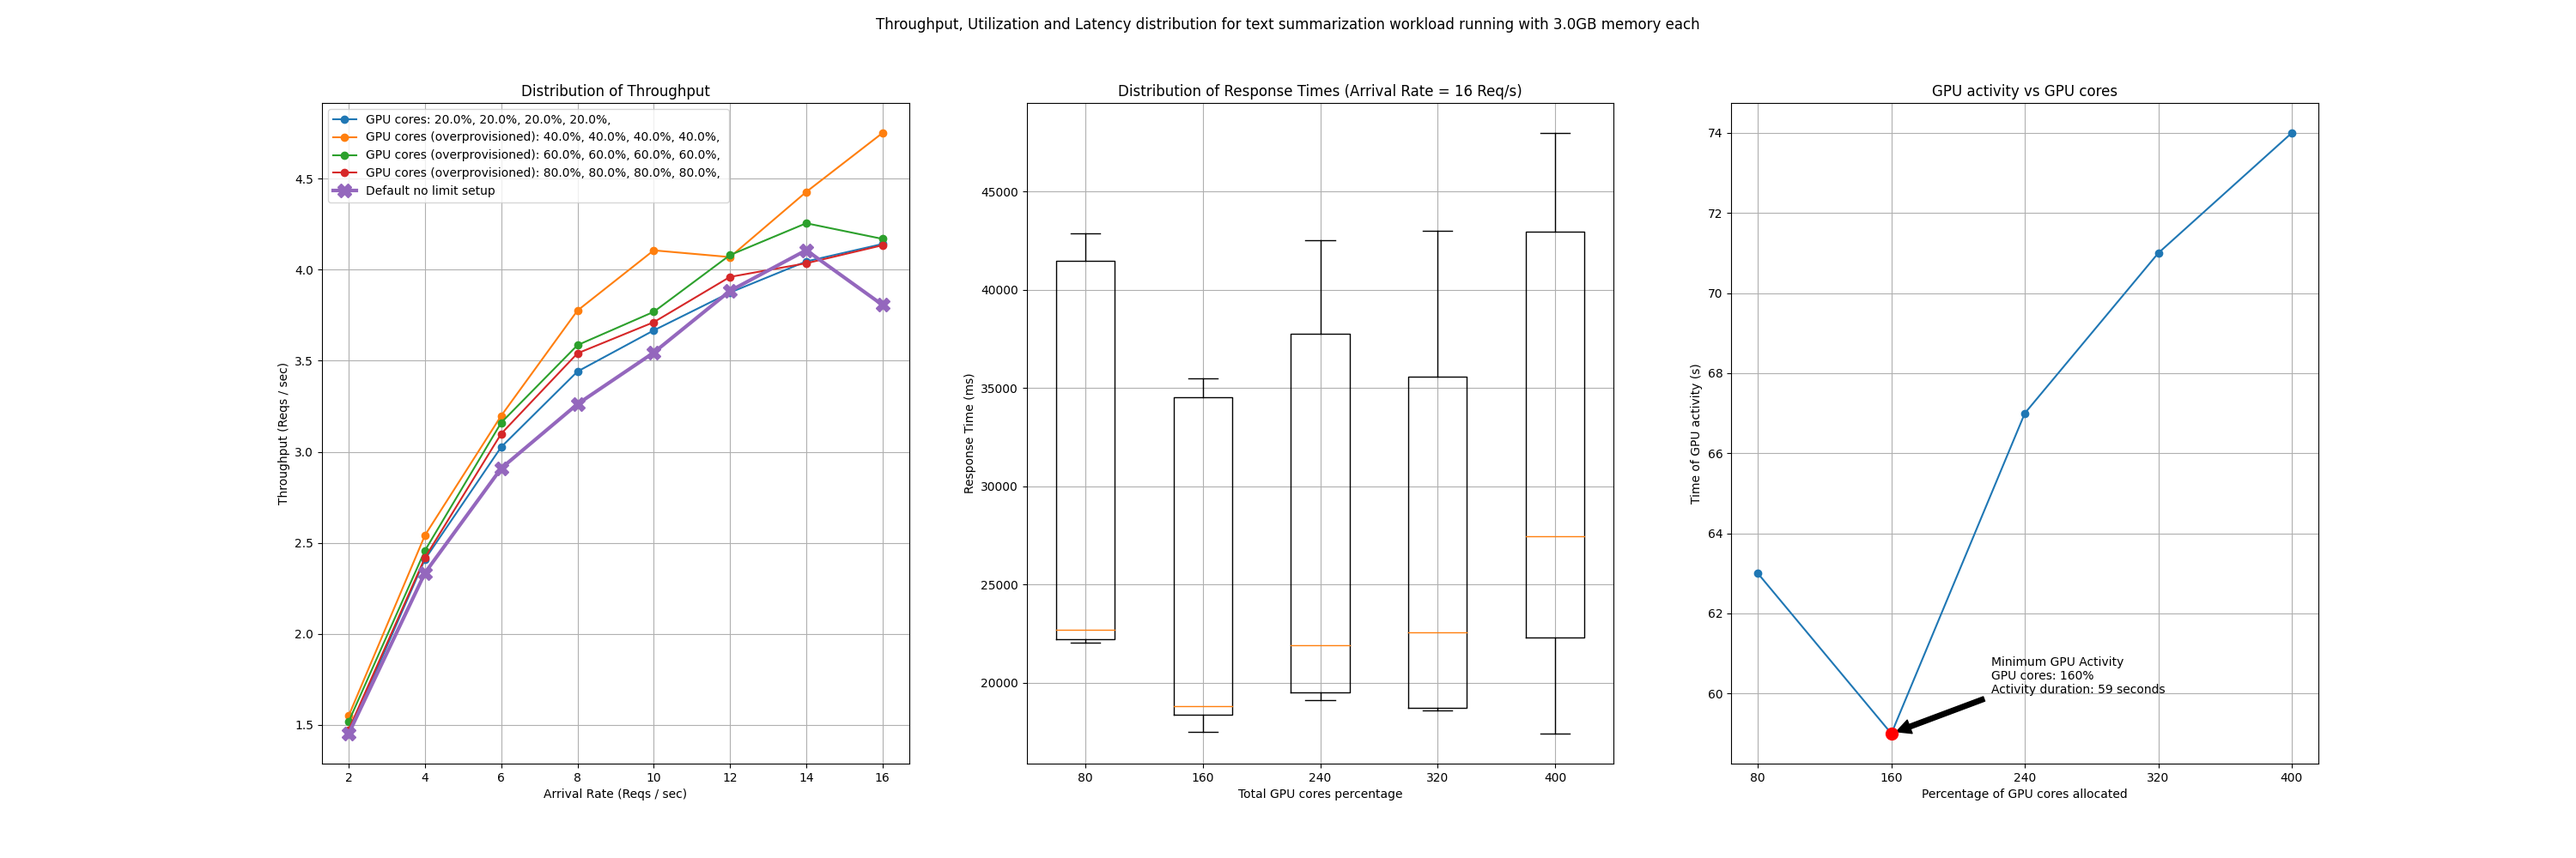
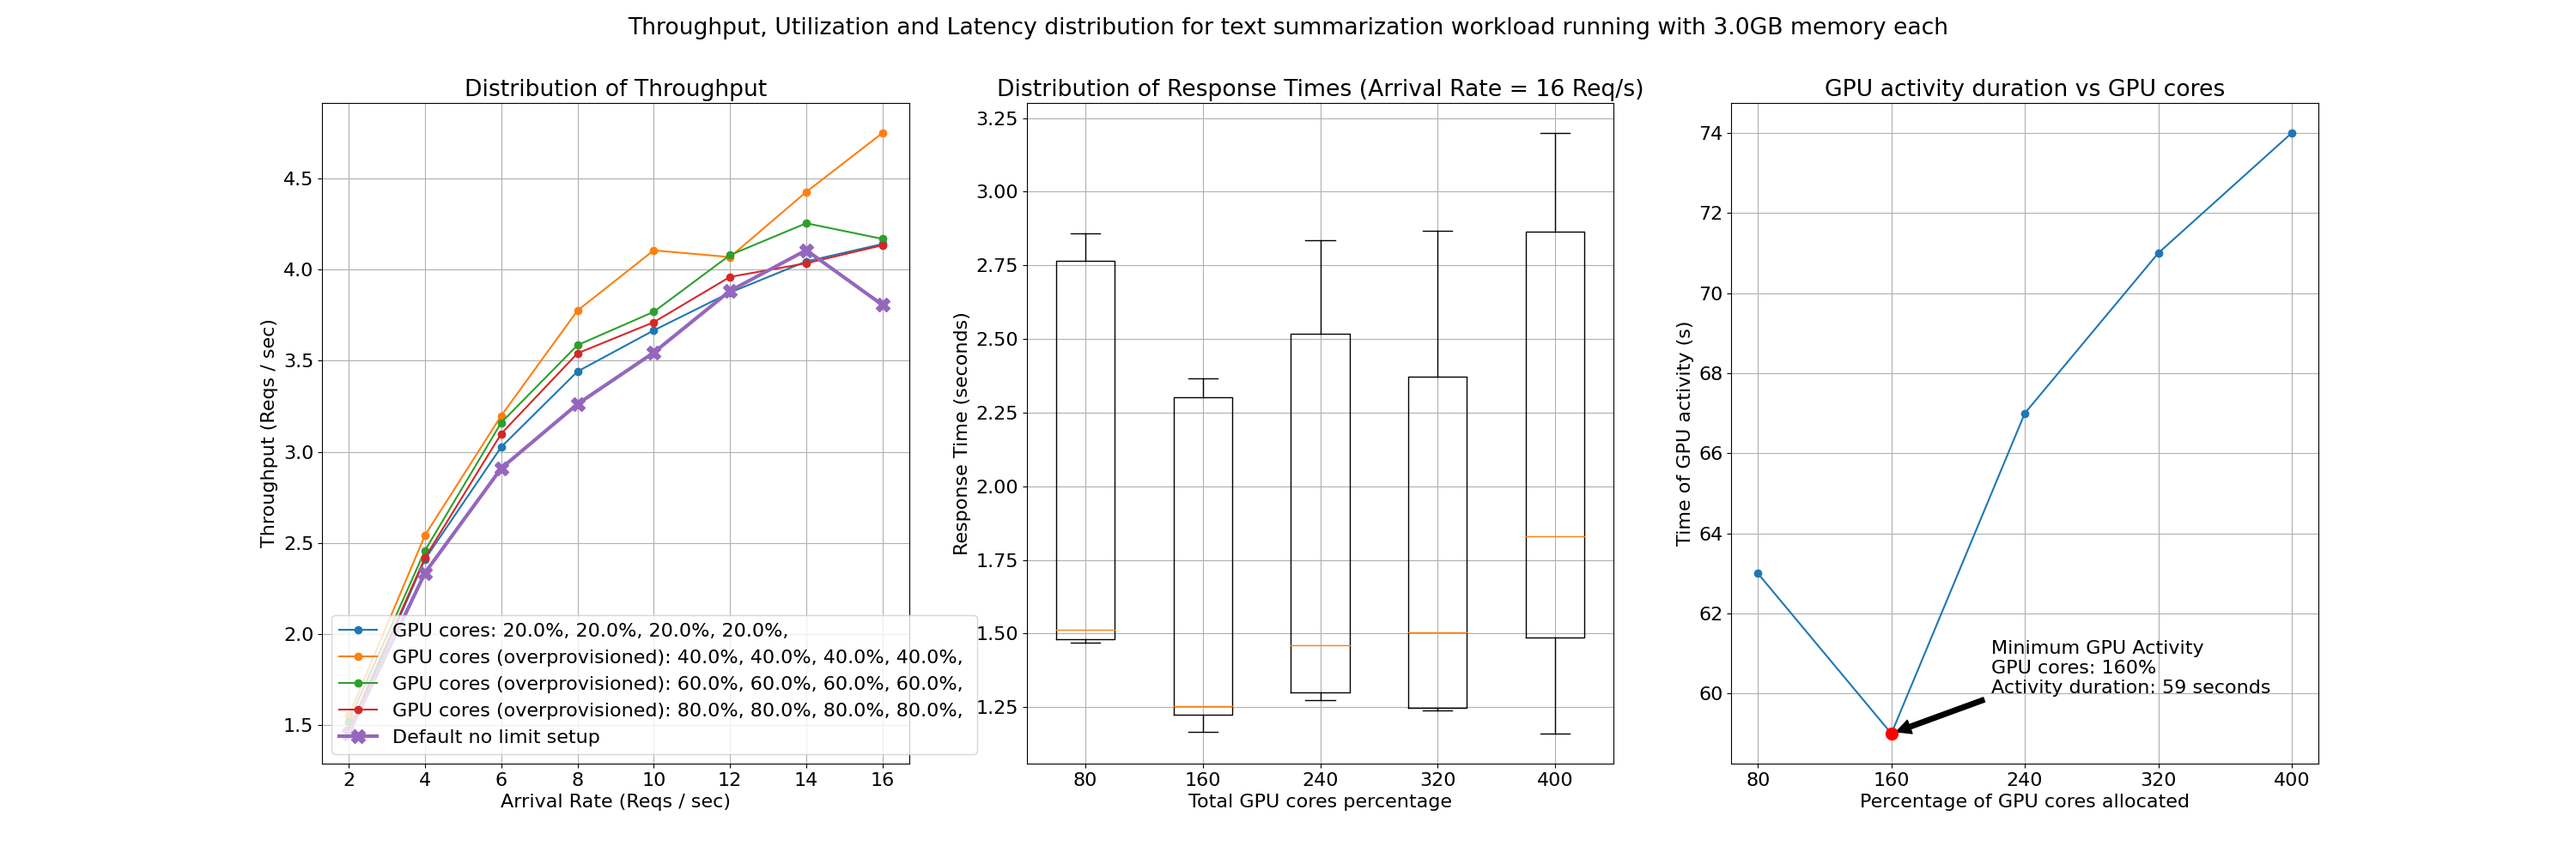
final results

diff --git a/profiler/colocation/results/plot-colocated-comparision-no-overprovisioning.py b/profiler/colocation/results/plot-colocated-comparision-no-overprovisioning.py
@@ -1,6 +1,7 @@
 import pandas as pd
 import matplotlib.pyplot as plt
 import ast
+plt.rcParams.update({'font.size': 16})  # You can change 14 to any desired font size
 
 filename = "samsum-colocated-no-overprovisioning.csv"
 memory = 12
@@ -33,12 +34,14 @@ dataset = []
 for co in colocation_values:
     latencies = data[(data['colocation'] == co) & (data['arrival_rate'] == 4)]["latencies"].iloc[0]
     latencies = ast.literal_eval(latencies)  
+    for i in range(len(latencies)):
+        latencies[i] = latencies[i]/15000
     dataset.append(latencies)
 
 plt.boxplot(dataset)
 plt.xticks(range(1, 5), colocation_values)  
 plt.xlabel(f'Colocation Level')
-plt.ylabel('Response Time (ms)')
+plt.ylabel('Response Time (seconds)')
 plt.title(f'Distribution of Response Times (Arrival Rate = 16 Req/s)')
 plt.grid(True)
 
@@ -57,14 +60,9 @@ for co in colocation_values:
     df = df[df["GPU_Utilization"] > 5]
     activitiy = df['GPU_Utilization'].max() - df['GPU_Utilization'].min()
     values.append(activitiy)
-    if co == 4:
-        minv = activitiy
 
-values = [76, 74, 71, 69]
 plt.plot(range(1, 5, 1), values, marker='o')
 plt.xticks(range(1, 5, 1))
-mini = 4
-minv = 69
 
 # Plot the highlighted point with a different color and larger size
 plt.scatter([mini], [minv], color='r', s=100, zorder=5)
@@ -72,12 +70,12 @@ plt.scatter([mini], [minv], color='r', s=100, zorder=5)
 # Add a label to the highlighted point
 plt.annotate(f'Minimum GPU Activity\nColocation Level: {mini}\nActivity duration: {minv} seconds', 
              xy=(mini, minv), 
-             xytext=(mini - 2, minv + 1),
+             xytext=(mini - 3, minv + 1),
              arrowprops=dict(facecolor='black', shrink=0.05))
 
 plt.xlabel('Colocation level')
 plt.ylabel('Time of GPU activity (s)')
-plt.title(f'GPU activity vs Colocation level')
+plt.title(f'GPU activity duration vs Colocation level')
 plt.grid(True)
 
 plt.suptitle(f"Throughput, Utilization and Latency distribution for text summarization workload running with 12 GB of memory, 100% GPU cores, and varying colocation level")

diff --git a/profiler/colocation/results/plot-colocated-workload-profile-3.py b/profiler/colocation/results/plot-colocated-workload-profile-3.py
@@ -1,6 +1,7 @@
 import pandas as pd
 import matplotlib.pyplot as plt
 import ast
+plt.rcParams.update({'font.size': 16})  # You can change 14 to any desired font size
 
 filename = "samsum-3-fixed-memory.csv"
 num_colocation = 3
@@ -49,13 +50,15 @@ plt.subplot(1, 3, 2)
 dataset = []
 for com in compute_values:
     latencies = data[(data['compute'] == com) & (data['memory'] == memory) & (data['arrival_rate'] == 16)]["latencies"].iloc[0]
-    latencies = ast.literal_eval(latencies)  
+    latencies = ast.literal_eval(latencies)
+    for i in range(len(latencies)):
+        latencies[i] = latencies[i]/15000
     dataset.append(latencies)
 
 plt.boxplot(dataset)
 plt.xticks(range(1, 6), compute_values)  
 plt.xlabel(f'Total GPU cores percentage')
-plt.ylabel('Response Time (ms)')
+plt.ylabel('Response Time (seconds)')
 plt.title(f'Distribution of Response Times (Arrival Rate = 16 Req/s)')
 plt.grid(True)
 
@@ -77,10 +80,7 @@ for com in compute_values:
     if com == 100:
         minv = activitiy
 
-values = [69, 64, 68, 66, 62]
 plt.plot(range(60, 301, 60), values, marker='o')
-mini = 300
-minv = 62
 
 # Plot the highlighted point with a different color and larger size
 plt.scatter([mini], [minv], color='r', s=100, zorder=5)
@@ -88,12 +88,12 @@ plt.scatter([mini], [minv], color='r', s=100, zorder=5)
 # Add a label to the highlighted point
 plt.annotate(f'Minimum GPU Activity\nGPU cores: {mini}%\nActivity duration: {minv} seconds', 
              xy=(mini, minv), 
-             xytext=(mini - 120, minv + 1),
+             xytext=(mini - 200, minv + 1),
              arrowprops=dict(facecolor='black', shrink=0.05))
 
 plt.xlabel('Percentage of GPU cores allocated')
 plt.ylabel('Time of GPU activity (s)')
-plt.title(f'GPU activity vs GPU cores')
+plt.title(f'GPU activity duration vs GPU cores')
 plt.grid(True)
 
 plt.suptitle(f"Throughput, Utilization and Latency distribution for text summarization workload running with {memory/num_colocation}GB memory each")

diff --git a/profiler/colocation/results/plot-colocated-workload-profile-2.py b/profiler/colocation/results/plot-colocated-workload-profile-2.py
@@ -1,6 +1,7 @@
 import pandas as pd
 import matplotlib.pyplot as plt
 import ast
+plt.rcParams.update({'font.size': 16})  # You can change 14 to any desired font size
 
 filename = "samsum-2-fixed-memory.csv"
 num_colocation = 2
@@ -50,12 +51,14 @@ dataset = []
 for com in compute_values:
     latencies = data[(data['compute'] == com) & (data['memory'] == memory) & (data['arrival_rate'] == 16)]["latencies"].iloc[0]
     latencies = ast.literal_eval(latencies)  
+    for i in range(len(latencies)):
+        latencies[i] = latencies[i]/15000
     dataset.append(latencies)
 
 plt.boxplot(dataset)
 plt.xticks(range(1, 6), compute_values)  
 plt.xlabel(f'Total GPU cores percentage')
-plt.ylabel('Response Time (ms)')
+plt.ylabel('Response Time (seconds)')
 plt.title(f'Distribution of Response Times (Arrival Rate = 16 Req/s)')
 plt.grid(True)
 
@@ -77,10 +80,7 @@ for com in compute_values:
     if com == 100:
         minv = activitiy
 
-values = [75, 70, 58, 60, 68]
 plt.plot(range(40, 201, 40), values, marker='o')
-mini = 120
-minv = 58
 
 # Plot the highlighted point with a different color and larger size
 plt.scatter([mini], [minv], color='r', s=100, zorder=5)
@@ -88,12 +88,12 @@ plt.scatter([mini], [minv], color='r', s=100, zorder=5)
 # Add a label to the highlighted point
 plt.annotate(f'Minimum GPU Activity\nGPU cores: {mini}%\nActivity duration: {minv} seconds', 
              xy=(mini, minv), 
-             xytext=(mini - 20, minv + 5),
+             xytext=(mini - 10, minv + 5),
              arrowprops=dict(facecolor='black', shrink=0.05))
 
 plt.xlabel('Percentage of GPU cores allocated')
 plt.ylabel('Time of GPU activity (s)')
-plt.title(f'GPU activity vs GPU cores')
+plt.title(f'GPU activity duration vs GPU cores')
 plt.grid(True)
 
 plt.suptitle(f"Throughput, Utilization and Latency distribution for text summarization workload running with {memory/num_colocation}GB memory each")

diff --git a/profiler/colocation/results/plot-colocated-comparision-overprovisioning-200.py b/profiler/colocation/results/plot-colocated-comparision-overprovisioning-200.py
@@ -1,6 +1,7 @@
 import pandas as pd
 import matplotlib.pyplot as plt
 import ast
+plt.rcParams.update({'font.size': 16})  # You can change 14 to any desired font size
 
 filename = "samsum-colocated-with-overprovisioning-200.csv"
 memory = 12
@@ -33,12 +34,14 @@ dataset = []
 for co in colocation_values:
     latencies = data[(data['colocation'] == co) & (data['arrival_rate'] == 4)]["latencies"].iloc[0]
     latencies = ast.literal_eval(latencies)  
+    for i in range(len(latencies)):
+        latencies[i] = latencies[i]/15000
     dataset.append(latencies)
 
 plt.boxplot(dataset)
 plt.xticks(range(1, 5), colocation_values)  
 plt.xlabel(f'Colocation Level')
-plt.ylabel('Response Time (ms)')
+plt.ylabel('Response Time (seconds)')
 plt.title(f'Distribution of Response Times (Arrival Rate = 16 Req/s)')
 plt.grid(True)
 
@@ -57,14 +60,9 @@ for co in colocation_values:
     df = df[df["GPU_Utilization"] > 5]
     activitiy = df['GPU_Utilization'].max() - df['GPU_Utilization'].min()
     values.append(activitiy)
-    if co == 4:
-        minv = activitiy
 
-values = [74, 72, 71, 68]
 plt.plot(range(2, 6, 1), values, marker='o')
 plt.xticks(range(2, 6, 1))
-mini = 5
-minv = 68
 
 # Plot the highlighted point with a different color and larger size
 plt.scatter([mini], [minv], color='r', s=100, zorder=5)
@@ -77,7 +75,7 @@ plt.annotate(f'Minimum GPU Activity\nColocation Level: {mini}\nActivity duration
 
 plt.xlabel('Colocation level')
 plt.ylabel('Time of GPU activity (s)')
-plt.title(f'GPU activity vs Colocation Level')
+plt.title(f'GPU activity duration vs Colocation Level')
 plt.grid(True)
 
 plt.suptitle(f"Throughput, Utilization and Latency distribution for text summarization workload running with 16 GB of memory, 200% GPU cores, and varying colocation level")

diff --git a/profiler/colocation/results/plot-colocated-workload-profile-4.py b/profiler/colocation/results/plot-colocated-workload-profile-4.py
@@ -1,6 +1,7 @@
 import pandas as pd
 import matplotlib.pyplot as plt
 import ast
+plt.rcParams.update({'font.size': 16})  # You can change 14 to any desired font size
 
 filename = "samsum-4-fixed-memory.csv"
 num_colocation = 4
@@ -49,13 +50,15 @@ plt.subplot(1, 3, 2)
 dataset = []
 for com in compute_values:
     latencies = data[(data['compute'] == com) & (data['memory'] == memory) & (data['arrival_rate'] == 16)]["latencies"].iloc[0]
-    latencies = ast.literal_eval(latencies)  
+    latencies = ast.literal_eval(latencies)
+    for i in range(len(latencies)):
+        latencies[i] = latencies[i]/15000
     dataset.append(latencies)
 
 plt.boxplot(dataset)
 plt.xticks(range(1, 6), compute_values)  
 plt.xlabel(f'Total GPU cores percentage')
-plt.ylabel('Response Time (ms)')
+plt.ylabel('Response Time (seconds)')
 plt.title(f'Distribution of Response Times (Arrival Rate = 16 Req/s)')
 plt.grid(True)
 
@@ -77,11 +80,8 @@ for com in compute_values:
     if com == 100:
         minv = activitiy
 
-values = [63, 59, 67, 71, 74]
 plt.plot(range(80, 401, 80), values, marker='o')
 plt.xticks(range(80, 401, 80))
-mini = 160
-minv = 59
 
 # Plot the highlighted point with a different color and larger size
 plt.scatter([mini], [minv], color='r', s=100, zorder=5)
@@ -94,7 +94,7 @@ plt.annotate(f'Minimum GPU Activity\nGPU cores: {mini}%\nActivity duration: {min
 
 plt.xlabel('Percentage of GPU cores allocated')
 plt.ylabel('Time of GPU activity (s)')
-plt.title(f'GPU activity vs GPU cores')
+plt.title(f'GPU activity duration vs GPU cores')
 plt.grid(True)
 
 plt.suptitle(f"Throughput, Utilization and Latency distribution for text summarization workload running with {memory/num_colocation}GB memory each")

diff --git a/profiler/colocation/results/plot-colocated-comparision-overprovisioning-300.py b/profiler/colocation/results/plot-colocated-comparision-overprovisioning-300.py
@@ -1,6 +1,7 @@
 import pandas as pd
 import matplotlib.pyplot as plt
 import ast
+plt.rcParams.update({'font.size': 16})  # You can change 14 to any desired font size
 
 filename = "samsum-colocated-with-overprovisioning-300.csv"
 memory = 12
@@ -32,13 +33,15 @@ plt.subplot(1, 3, 2)
 dataset = []
 for co in colocation_values:
     latencies = data[(data['colocation'] == co) & (data['arrival_rate'] == 4)]["latencies"].iloc[0]
-    latencies = ast.literal_eval(latencies)  
+    latencies = ast.literal_eval(latencies)
+    for i in range(len(latencies)):
+        latencies[i] = latencies[i]/15000
     dataset.append(latencies)
 
 plt.boxplot(dataset)
 plt.xticks(range(1, 4), colocation_values)  
 plt.xlabel(f'Colocation Level')
-plt.ylabel('Response Time (ms)')
+plt.ylabel('Response Time (seconds)')
 plt.title(f'Distribution of Response Times (Arrival Rate = 16 Req/s)')
 plt.grid(True)
 
@@ -60,11 +63,8 @@ for co in colocation_values:
     if co == 4:
         minv = activitiy
 
-values = [77, 79, 76]
 plt.plot(range(3, 6, 1), values, marker='o')
 plt.xticks(range(3, 6, 1))
-mini = 5
-minv = 76
 
 # Plot the highlighted point with a different color and larger size
 plt.scatter([mini], [minv], color='r', s=100, zorder=5)
@@ -77,7 +77,7 @@ plt.annotate(f'Minimum GPU Activity\nColocation Level: {mini}\nActivity duration
 
 plt.xlabel('Colocation level')
 plt.ylabel('Time of GPU activity (s)')
-plt.title(f'GPU activity vs Colocation Level')
+plt.title(f'GPU activity duration vs Colocation Level')
 plt.grid(True)
 
 plt.suptitle(f"Throughput, Utilization and Latency distribution for text summarization workload running with 16 GB of memory, 300% GPU cores, and varying colocation level")
